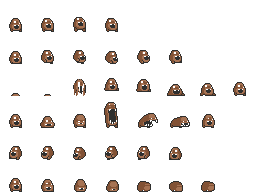
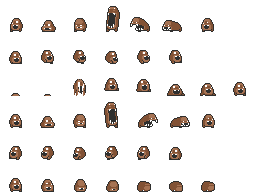
feat(enemy): Update Potato enemy attributes and add attack animations

diff --git a/internal/entity/enemy/potato.go b/internal/entity/enemy/potato.go
@@ -24,7 +24,7 @@ func NewPotatoEnemy(pos component.Vector2D) *PotatoEnemy {
 	potatoSprite, ok := assets.AssetStore.GetImage("potato")
 	animationStore := animation.NewAnimationStore()
 	if ok {
-		walkRightAnimation, err := animation.NewAnimation(potatoSprite, 32, 32, 0, 32, 6, 6, true)
+		walkRightAnimation, err := animation.NewAnimation(potatoSprite, 32, 32, 0, 1*32, 6, 6, true)
 		if err == nil {
 			animationStore.AddAnimation(WALK_RIGHT, walkRightAnimation)
 		}
@@ -32,9 +32,13 @@ func NewPotatoEnemy(pos component.Vector2D) *PotatoEnemy {
 		if err == nil {
 			animationStore.AddAnimation(WALK_LEFT, walkLeftAnimation)
 		}
-		attackAnimation, err := animation.NewAnimation(potatoSprite, 32, 32, 0, 3*32, 7, 7, false)
+		attackRightAnimation, err := animation.NewAnimation(potatoSprite, 32, 32, 0, 3*32, 7, 7, false)
 		if err == nil {
-			animationStore.AddAnimation(ATTACK, attackAnimation)
+			animationStore.AddAnimation(ATTACK_RIGHT, attackRightAnimation)
+		}
+		attackLeftAnimation, err := animation.NewAnimation(potatoSprite, 32, 32, 0, 0*32, 7, 7, false)
+		if err == nil {
+			animationStore.AddAnimation(ATTACK_LEFT, attackLeftAnimation)
 		}
 		spawnAnimation, err := animation.NewAnimation(potatoSprite, 32, 32, 0, 2*32, 8, 10, false)
 		if err == nil {
@@ -54,17 +58,17 @@ func NewPotatoEnemy(pos component.Vector2D) *PotatoEnemy {
 	return &PotatoEnemy{
 		Enemy: Enemy{
 			Entity:         *baseEntity,
-			Speed:          config.CARROT_SPEED,
-			Health:         component.NewHealth(config.CARROT_HEALTH),
-			Damage:         config.CARROT_DAMAGE,
-			AttackCooldown: config.CARROT_ATTACK_COOLDOWN,
-			attackTimer:    config.CARROT_ATTACK_START,
+			Speed:          config.POTATO_SPEED,
+			Health:         component.NewHealth(config.POTATO_HEALTH),
+			Damage:         config.POTATO_DAMAGE,
+			AttackCooldown: config.POTATO_ATTACK_COOLDOWN,
+			attackTimer:    config.POTATO_ATTACK_START,
 			animationStore: animationStore,
-			DropProb:       config.CARROT_DROP_PROB,   // 80% chance to drop an item
-			DropAmount:     config.CARROT_DROP_AMOUNT, // Drops 1 item
+			DropProb:       config.POTATO_DROP_PROB,   // 80% chance to drop an item
+			DropAmount:     config.POTATO_DROP_AMOUNT, // Drops 1 item
 		},
 		MeleeEnemyData: MeleeEnemyData{
-			AttackRange: config.CARROT_ATTACK_RANGE,
+			AttackRange: config.POTATO_ATTACK_RANGE,
 		},
 	}
 }
@@ -78,6 +82,19 @@ func (e *PotatoEnemy) SetWalkingAnimation(player *player.Player) {
 	} else {
 		if ok := e.animationStore.SetCurrentAnimation(WALK_LEFT); !ok {
 			fmt.Println("Warning: Unable to start the potato walkLeft animation")
+		}
+	}
+}
+
+func (e *PotatoEnemy) SetAttackAnimation(player *player.Player) {
+	dir := player.Pos.Sub(e.Pos)
+	if dir.X > 0 {
+		if ok := e.animationStore.SetCurrentAnimation(ATTACK_RIGHT); !ok {
+			fmt.Println("Warning: Unable to start the potato attackRight animation")
+		}
+	} else {
+		if ok := e.animationStore.SetCurrentAnimation(ATTACK_LEFT); !ok {
+			fmt.Println("Warning: Unable to start the potato attackLeft animation")
 		}
 	}
 }
@@ -105,9 +122,7 @@ func (e *PotatoEnemy) Update(player *player.Player, dt float64) {
 				player.Health.Damage(e.Damage)
 				e.attackTimer = e.AttackCooldown
 				// Starting the attack animation
-				if ok := e.animationStore.SetCurrentAnimation(ATTACK); !ok {
-					fmt.Println("Warning: Unable to start the potato attack animation")
-				}
+				e.SetAttackAnimation(player)
 			}
 		}
 	} else {
@@ -125,8 +140,8 @@ func (e *PotatoEnemy) Draw(screen *ebiten.Image, camX, camY float64) {
 		op.GeoM.Translate(e.Pos.X-camX-16.0, e.Pos.Y-camY-16.0)
 		screen.DrawImage(frameImage, op)
 	} else {
-		e.DefaultDraw(screen, camX, camY, config.CARROT_WIDTH, config.CARROT_HEIGHT,
-			color.RGBA{R: config.CARROT_COLOR_R, G: config.CARROT_COLOR_G, B: config.CARROT_COLOR_B, A: 255})
+		e.DefaultDraw(screen, camX, camY, config.POTATO_WIDTH, config.POTATO_HEIGHT,
+			color.RGBA{R: config.POTATO_COLOR_R, G: config.POTATO_COLOR_G, B: config.POTATO_COLOR_B, A: 255})
 	}
 }
 
@@ -149,7 +164,7 @@ func (e *PotatoEnemy) TryDrop(elapsedMinutes float32) []item.Item {
 		prob = 1
 	}
 	// Basis + rate * time
-	amount := e.DropAmount + int(elapsedMinutes*config.CARROT_DROP_AMOUNT_PER_MINUTE)
+	amount := e.DropAmount + int(elapsedMinutes*config.POTATO_DROP_AMOUNT_PER_MINUTE)
 
 	fmt.Printf("Potato Enemy TryDrop: prob=%.2f, amount=%d, %d min\n", prob, amount, int(elapsedMinutes))
 

diff --git a/internal/entity/enemy/carrot.go b/internal/entity/enemy/carrot.go
@@ -16,11 +16,13 @@ import (
 )
 
 const (
-	WALK_RIGHT string = "walkRight"
-	WALK_LEFT  string = "walkLeft"
-	ATTACK     string = "attack"
-	SPAWN      string = "spawn"
-	DEATH      string = "death"
+	WALK_RIGHT   string = "walkRight"
+	WALK_LEFT    string = "walkLeft"
+	ATTACK       string = "attack"
+	ATTACK_RIGHT string = "attack-right"
+	ATTACK_LEFT  string = "attack-left"
+	SPAWN        string = "spawn"
+	DEATH        string = "death"
 )
 
 type CarrotEnemy struct {

diff --git a/internal/config/config.go b/internal/config/config.go
@@ -46,8 +46,8 @@ const (
 	POTATO_SPEED                  = 25.0
 	POTATO_HEALTH                 = 6
 	POTATO_DAMAGE                 = 10
-	POTATO_ATTACK_COOLDOWN        = 1.0
-	POTATO_ATTACK_RANGE           = 20.0
+	POTATO_ATTACK_COOLDOWN        = 3.0
+	POTATO_ATTACK_RANGE           = 40.0
 	POTATO_ATTACK_START           = 0.0
 	POTATO_DROP_PROB              = 0.8 // 80% chance to drop an item
 	POTATO_DROP_AMOUNT            = 1   // Drops 1 item
